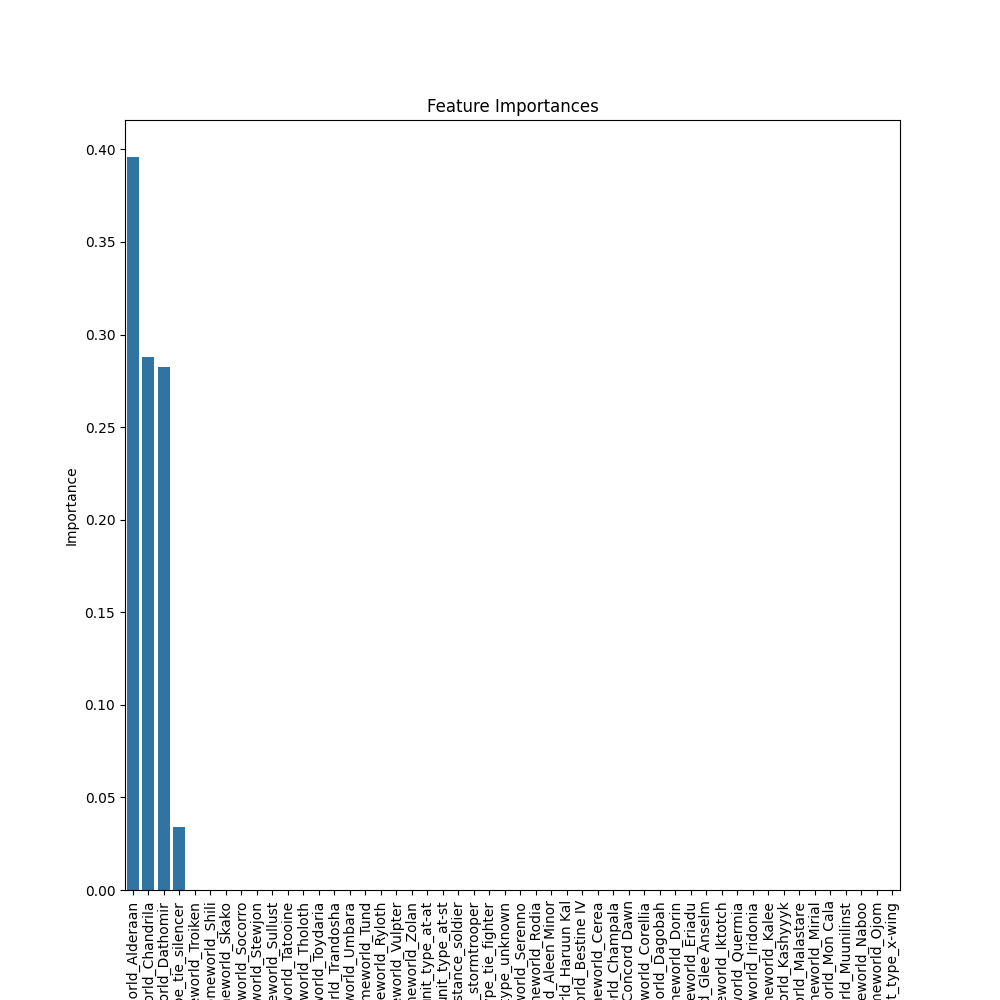
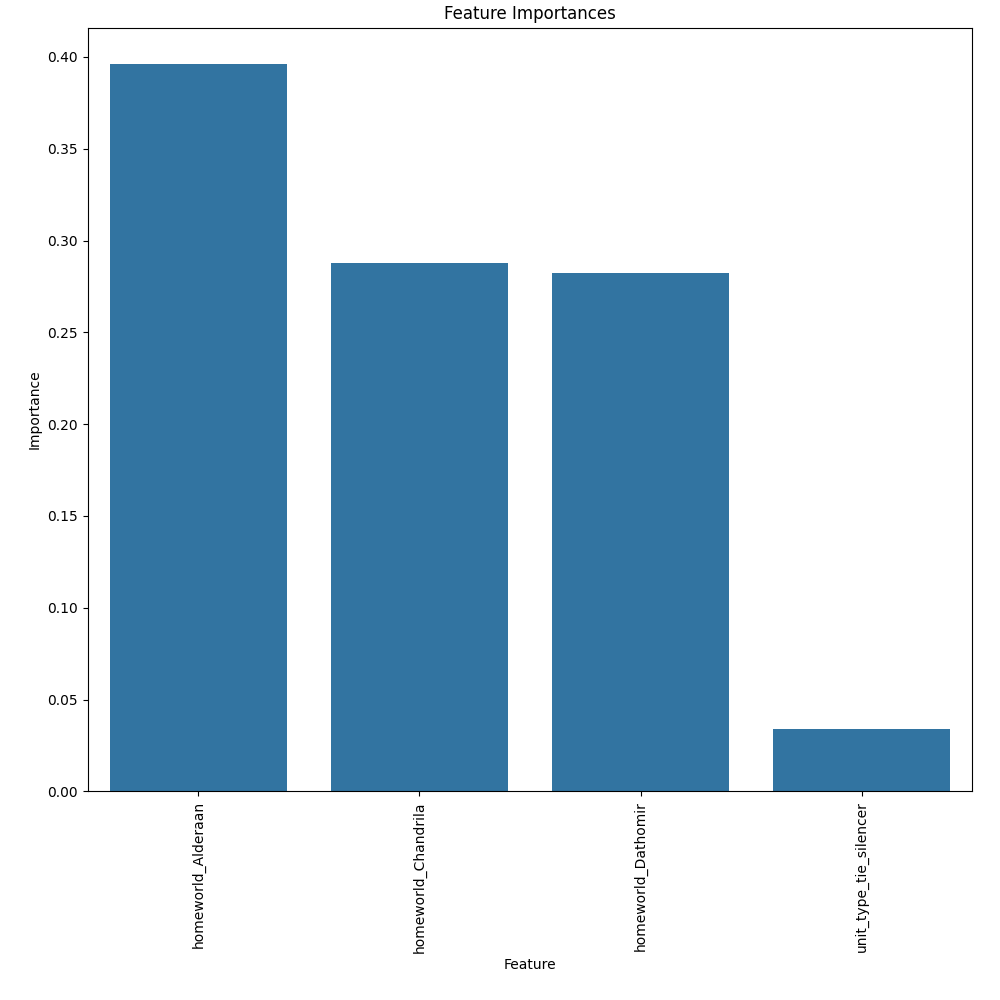
fix: fixed feature importances graph

diff --git a/model_maker.py b/model_maker.py
@@ -60,7 +60,7 @@ with open('trained_model.pkl', 'wb') as file:
 importances = model.feature_importances_
 
 # Create a DataFrame to hold the feature importances
-feature_importances = pd.DataFrame({'Feature': X_encoded.columns, 'Importance': importances}).sort_values('Importance', ascending=False)
+feature_importances = pd.DataFrame({'Feature': X_encoded.columns[importances != 0], 'Importance': importances[importances != 0]}).sort_values('Importance', ascending=False)
 print(feature_importances.head())
 
 plt.figure(figsize=(10,10))
@@ -68,6 +68,7 @@ sns.barplot(x=feature_importances['Feature'], y=feature_importances['Importance'
 plt.xticks(rotation='vertical')
 plt.xlabel('Feature')
 plt.ylabel('Importance')
+plt.tight_layout(pad=2.0)
 plt.title('Feature Importances')
 plt.savefig('feature_importances.png')
 plt.show()
